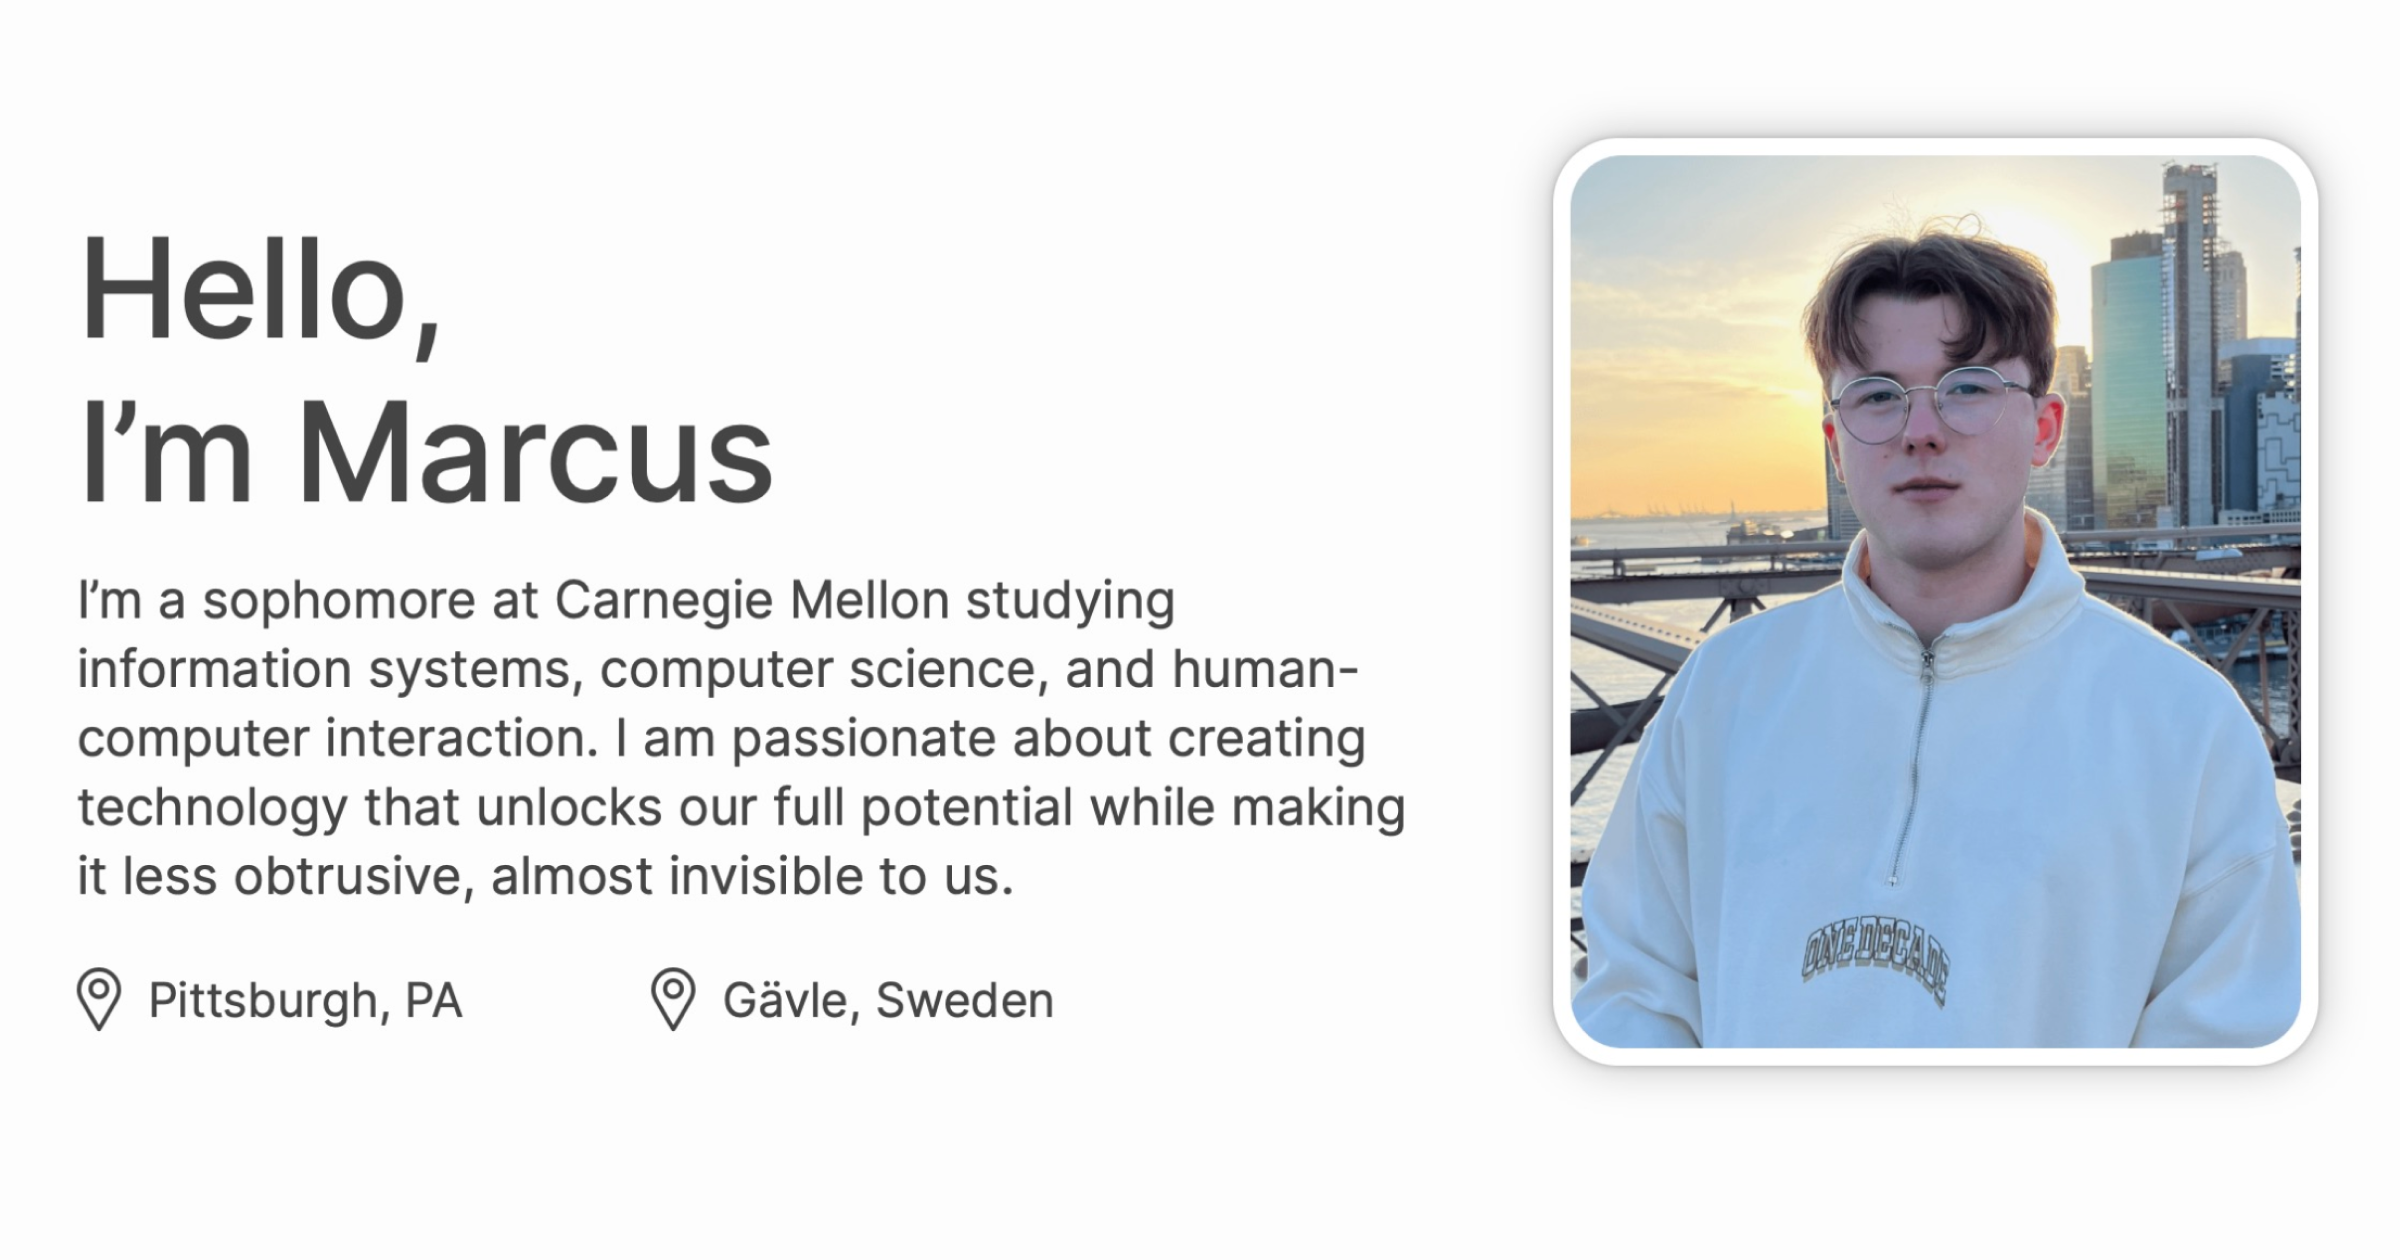
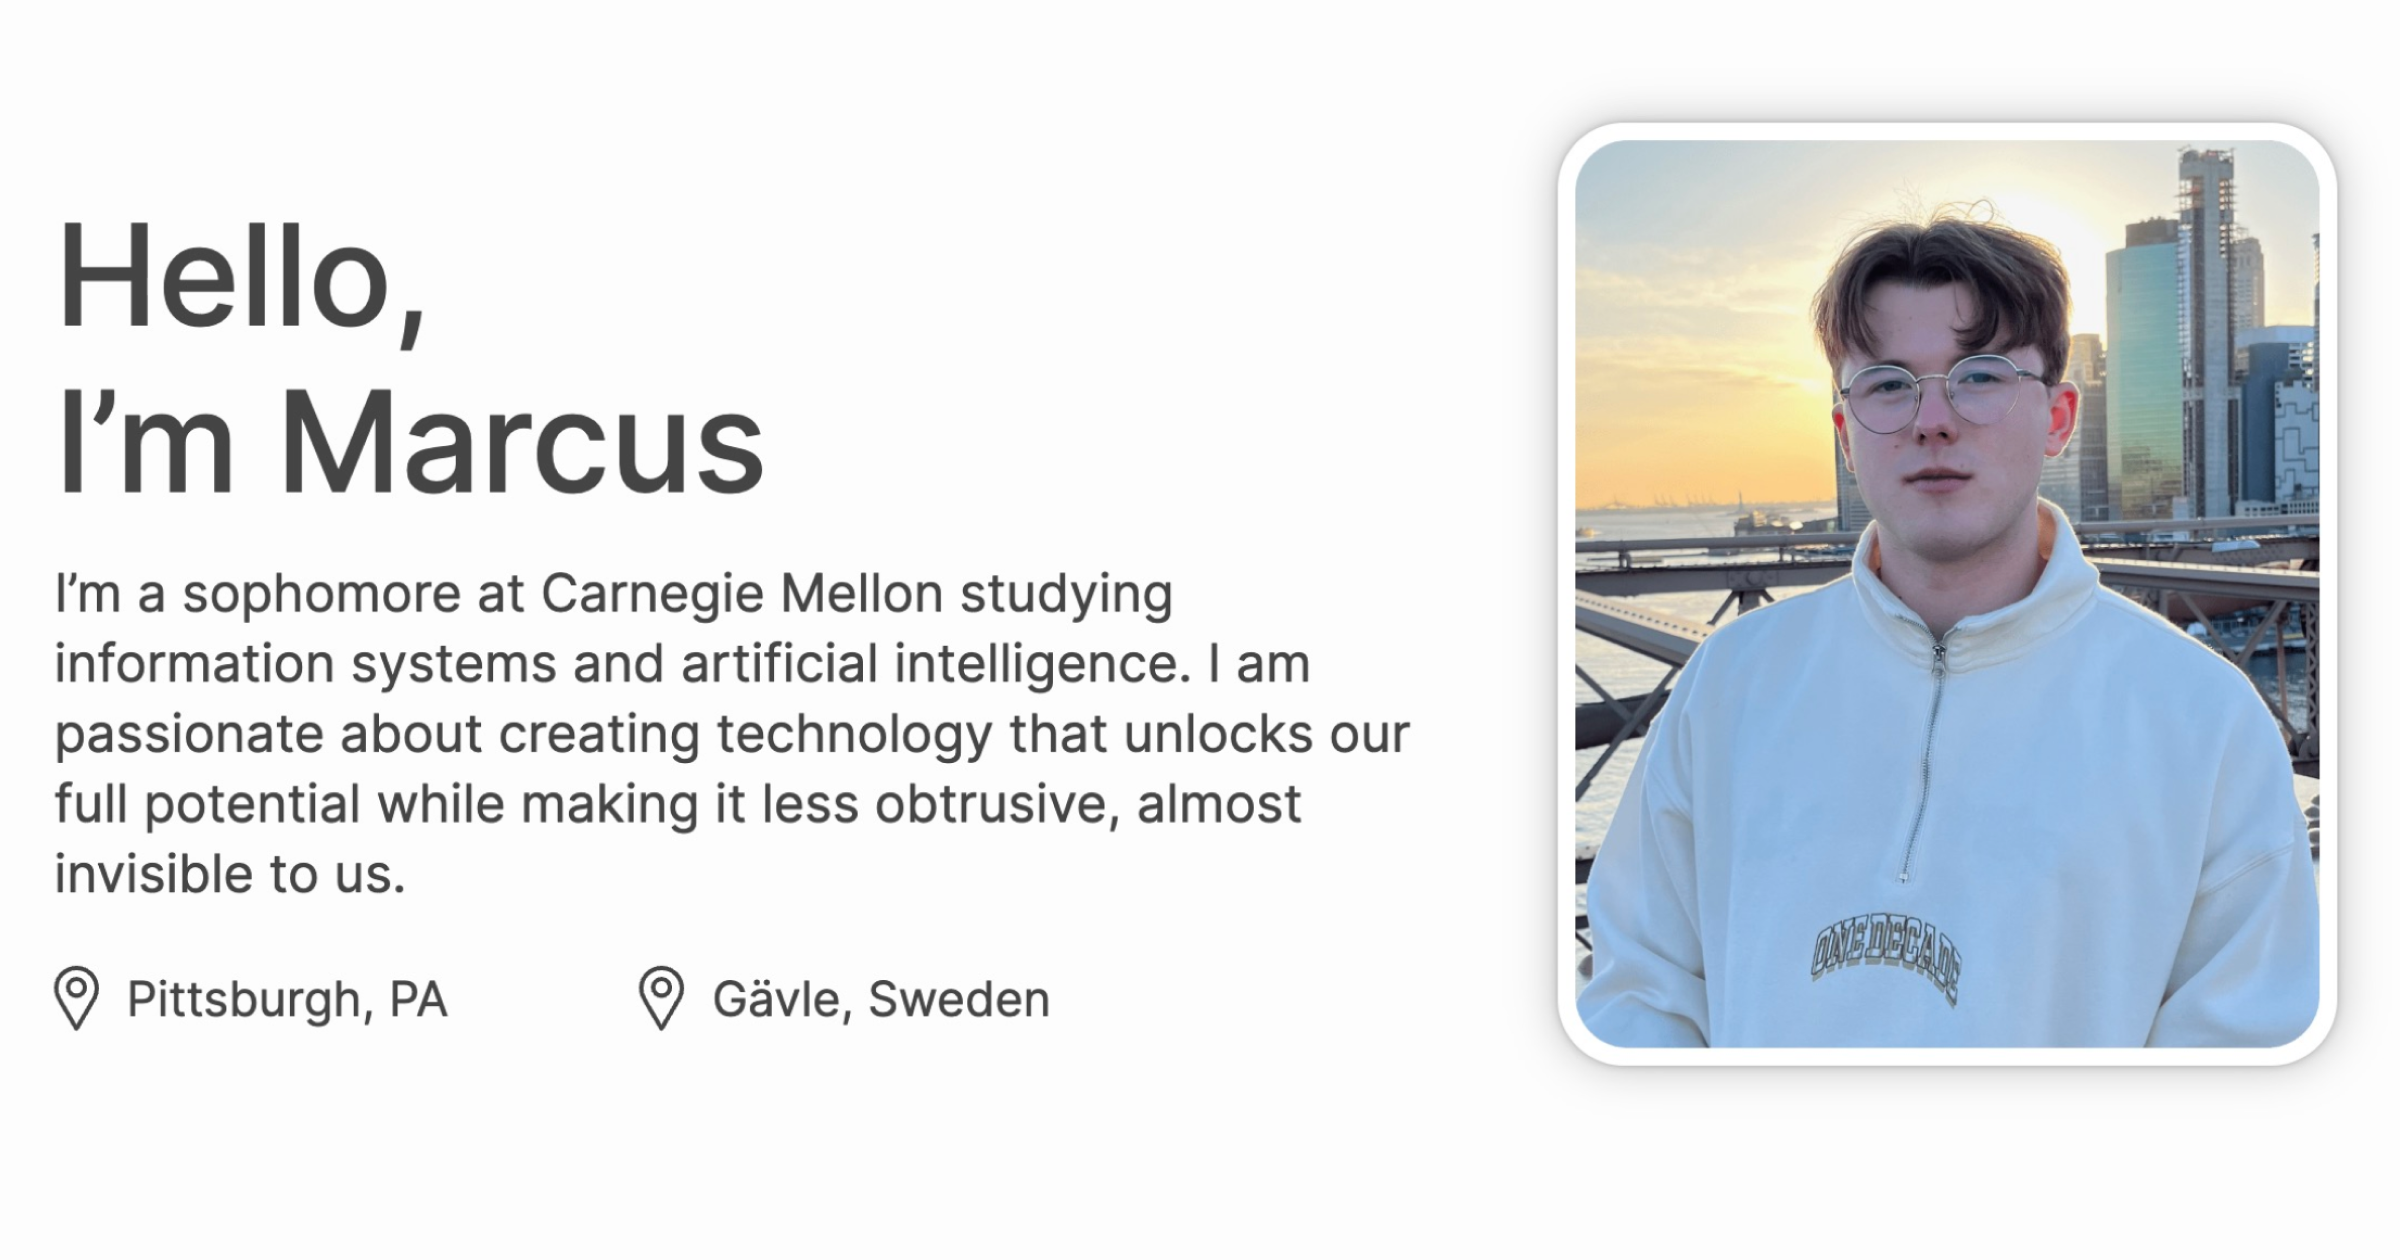
changed to IS + AI

diff --git a/index.html b/index.html
@@ -5,7 +5,7 @@
     <meta http-equiv="X-UA-Compatible" content="IE=edge">
     <meta name="viewport" content="width=device-width, initial-scale=1.0">
     <title>Marcus Alenius</title>
-    <meta name="description" content="I’m a sophomore at Carnegie Mellon studying information systems, computer science, and human-computer interaction. I am passionate about creating technology that unlocks our full potential while making it less obtrusive, almost invisible to us.">
+    <meta name="description" content="I’m a sophomore at Carnegie Mellon studying information systems and artificial intelligence. I am passionate about creating technology that unlocks our full potential while making it less obtrusive, almost invisible to us.">
     <meta name="author" content="Marcus Alenius">
     <!-- Mastodon verification -->
     <link rel="me" href="https://mastodon.social/@marcusalenius">
@@ -20,14 +20,14 @@
     <meta property="og:type" content="website">
     <meta property="og:site_name" content="Marcus Alenius">
     <meta property="og:title" content="Marcus Alenius">
-    <meta property="og:description" content="I’m a sophomore at Carnegie Mellon studying information systems, computer science, and human-computer interaction. I am passionate about creating technology that unlocks our full potential while making it less obtrusive, almost invisible to us.">
+    <meta property="og:description" content="I’m a sophomore at Carnegie Mellon studying information systems and artificial intelligence. I am passionate about creating technology that unlocks our full potential while making it less obtrusive, almost invisible to us.">
     <meta property="og:image" content="https://alenius.io/url-thumbnails/home-thumbnail.png">
     <!-- Twitter meta data -->
     <meta name="twitter:card" content="summary_large_image">
     <meta property="twitter:domain" content="alenius.io">
     <meta property="twitter:url" content="https://alenius.io">
     <meta name="twitter:title" content="Marcus Alenius">
-    <meta name="twitter:description" content="I’m a sophomore at Carnegie Mellon studying information systems, computer science, and human-computer interaction. I am passionate about creating technology that unlocks our full potential while making it less obtrusive, almost invisible to us.">
+    <meta name="twitter:description" content="I’m a sophomore at Carnegie Mellon studying information systems and artificial intelligence. I am passionate about creating technology that unlocks our full potential while making it less obtrusive, almost invisible to us.">
     <meta name="twitter:image" content="https://alenius.io/url-thumbnails/home-thumbnail.png">
     <!-- Font import -->
     <link rel="preconnect" href="https://fonts.googleapis.com">
@@ -110,7 +110,7 @@
       <div id="hero">
         <div id="hero-left">
           <h1>Hello,<br>I’m Marcus</h1>
-          <p class="paragraph-large">I’m a sophomore at Carnegie Mellon studying information systems, computer science, and human-computer interaction. I am passionate about creating technology that unlocks our full potential while making it less obtrusive, almost invisible to us.</p>
+          <p class="paragraph-large">I’m a sophomore at Carnegie Mellon studying information systems and artificial intelligence. I am passionate about creating technology that unlocks our full potential while making it less obtrusive, almost invisible to us.</p>
           <div id="locations-container">
             <a href="https://goo.gl/maps/bNiQi64BXmRpJvmT6" target="_blank" id="pitt-link">
               <div class="location">
